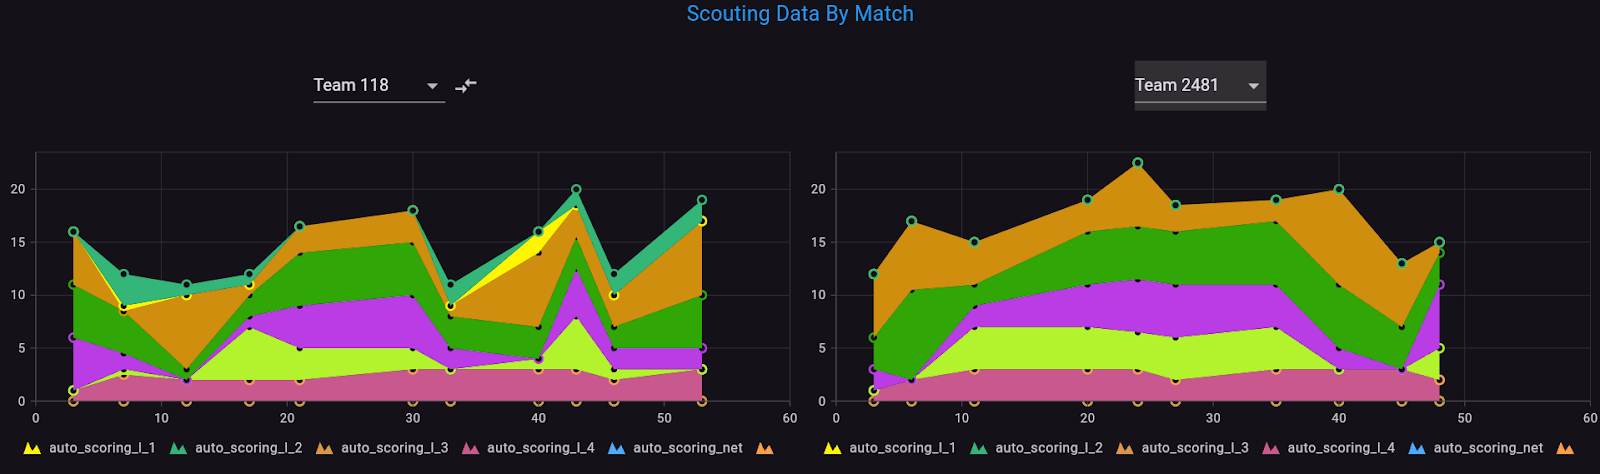
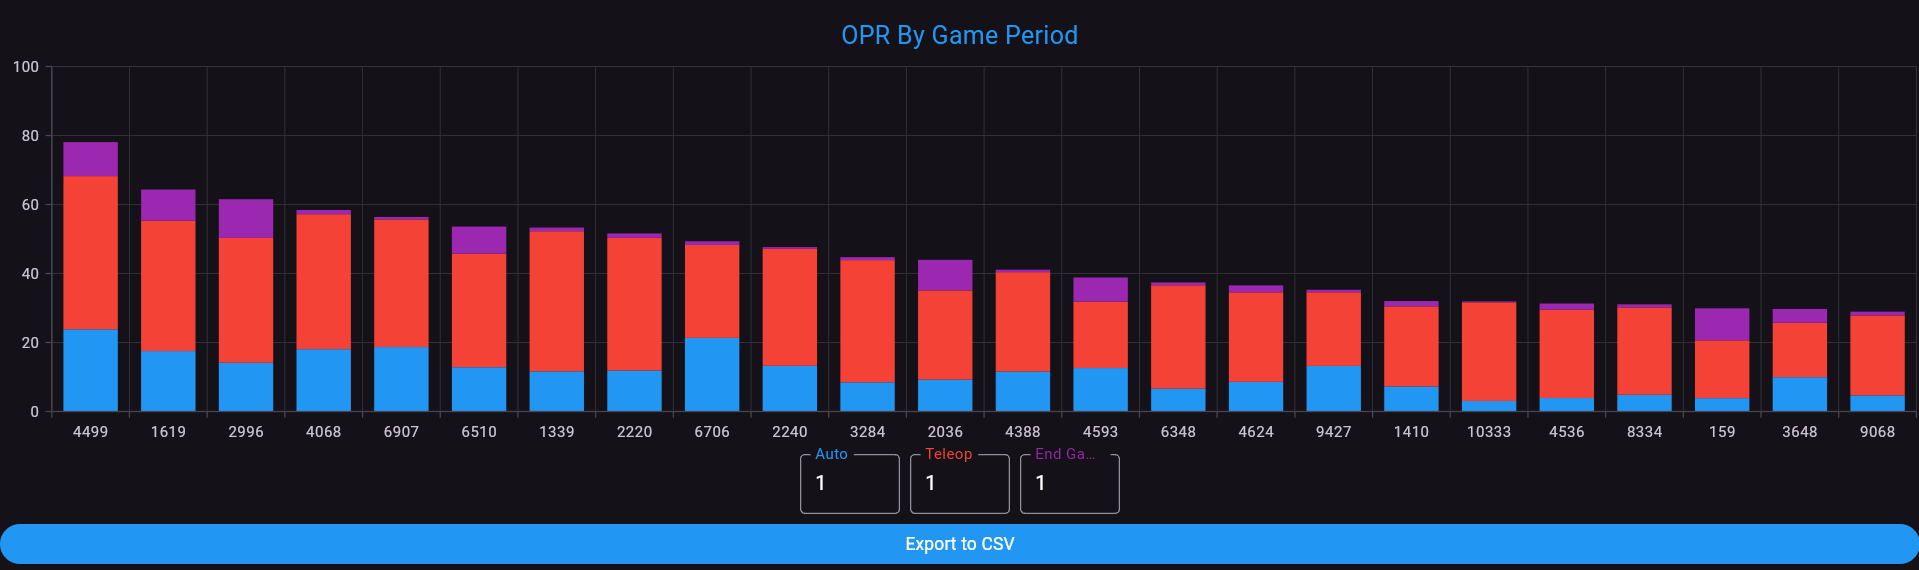
Updated the docs

diff --git a/APP/lib/pages/scouter_documentation.dart b/APP/lib/pages/scouter_documentation.dart
@@ -231,12 +231,32 @@ class ScouterDocumentation extends StatelessWidget {
               ),
             ),
             Container(
+              key: sectionKeys['match-predictions'],
+              child: buildSection(
+                id: 'match-predictions',
+                title: 'Match Predictions',
+                content:
+                    'The match predictions can be found on each match\'s page. It shows a full breakdown of the match, including different scoring aspects, as well as RPs. The other two tabs can be used to analyze autonomous. The draw button in the bottom right opens a drawing board to help visualize match strategies.',
+                imagePath: 'assets/documentation/match_predictions.png',
+              ),
+            ),
+            Container(
               key: sectionKeys['team-comparisons'],
               child: buildSection(
                 id: 'team-comparisons',
                 title: 'Team Comparisons',
                 content:
                     'The team comparison tool allows you to compare two teams side-by-side by game pieces in a match. These graphs are generated purely from scouting data. It can be found in the charts tab of the event page.',
+                imagePath: 'assets/documentation/team_comparisons.png',
+              ),
+            ),
+            Container(
+              key: sectionKeys['charts'],
+              child: buildSection(
+                id: 'charts',
+                title: 'Charts',
+                content:
+                    'The charts tab of the event page contains a list of all the charts generated from scouting data. You can click on any chart to view it in detail.',
                 imagePath: 'assets/documentation/charts.png',
               ),
             ),

diff --git a/APP/lib/widgets/polar_forecast_app_bar.dart b/APP/lib/widgets/polar_forecast_app_bar.dart
@@ -2,6 +2,7 @@ import 'package:flutter/material.dart';
 import 'package:flutter/services.dart';
 import 'package:provider/provider.dart';
 import 'package:scouting_app/models/group_join_request.dart';
+import 'package:url_launcher/url_launcher.dart';
 import '../models/tournament.dart';
 import '../api_service.dart';
 import '../utils.dart';
@@ -435,11 +436,15 @@ class TournamentSearchDelegate extends SearchDelegate {
       itemCount: results.length,
       itemBuilder: (context, index) {
         return ListTile(
-          title: Text(results[index].display),
-          onTap: () {
-            Navigator.pushNamed(context, '/event/${results[index].key}');
-          },
-        );
+            title: Text(results[index].display),
+            onTap: () {
+              Navigator.pushNamed(context, '/event/${results[index].key}');
+            },
+            onLongPress: () {
+              launchUrl(Uri.parse(
+                  Provider.of<ApiService>(context, listen: false).APPURL +
+                      '/event/${results[index].key}'));
+            });
       },
     );
   }
